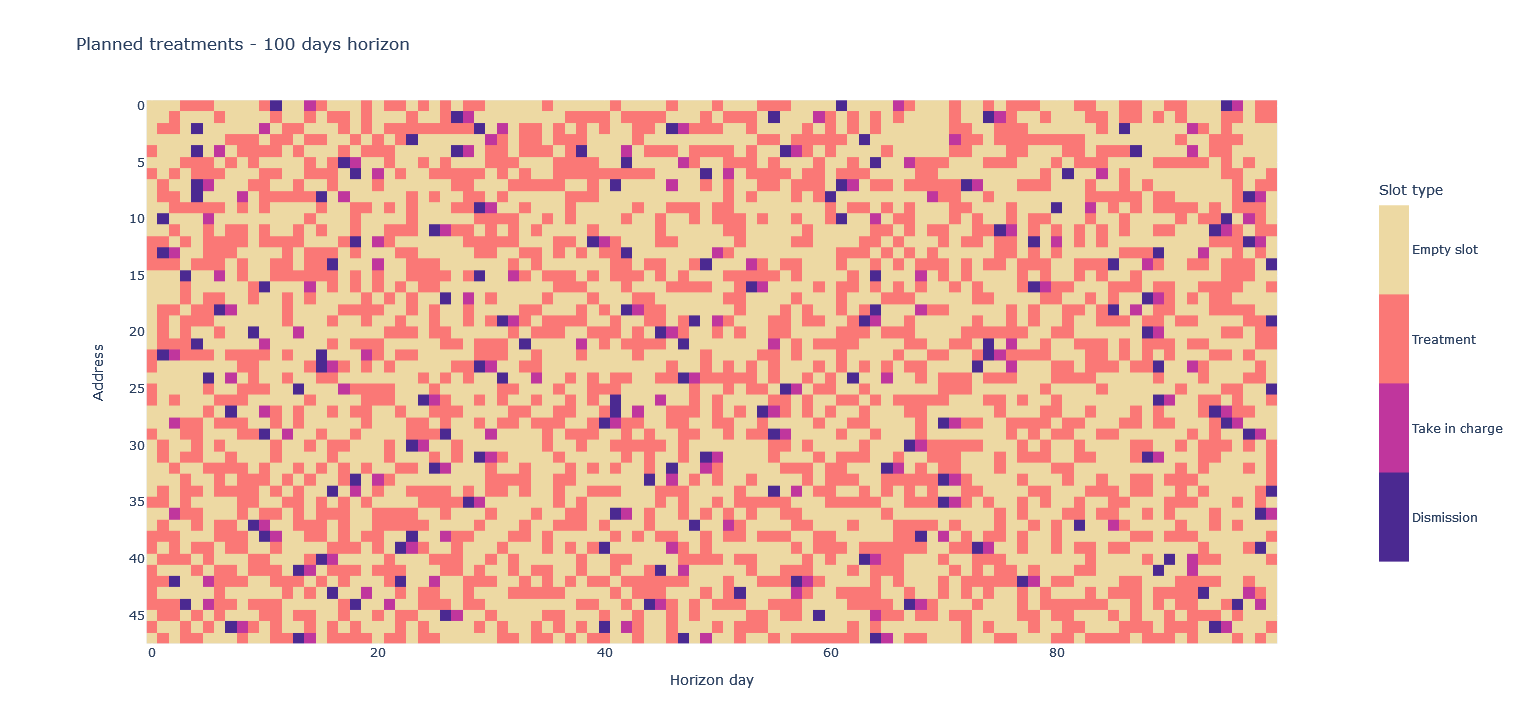
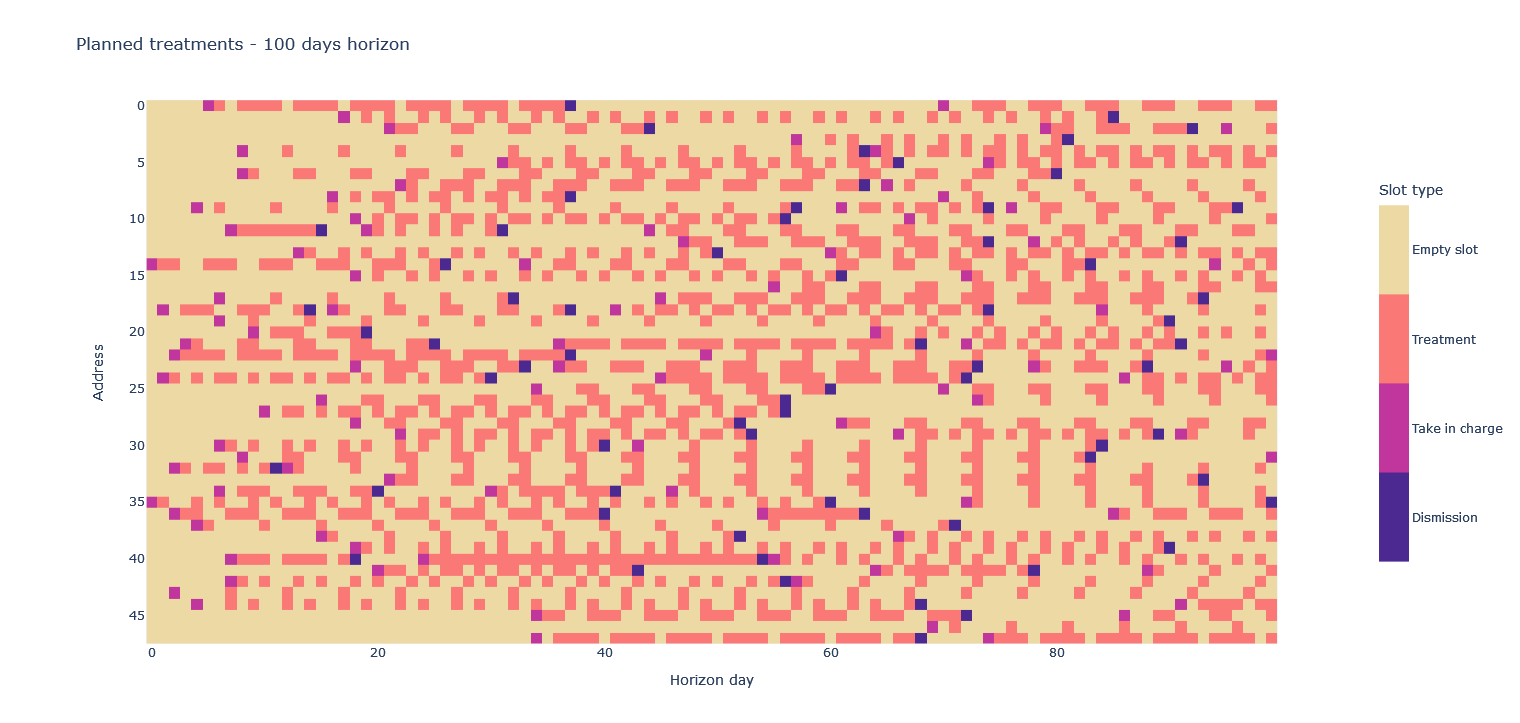
Update readme.

Changed region(s): [[0.0928, 0.1217, 0.8658, 0.9129]]

diff --git a/README.md b/README.md
@@ -2,7 +2,7 @@
 OAD project. For now it contains the instance generator.
 
 ## Instance generator
-The instance generator allows for generating a plan of given temporal span.
+The instance generator allows for generating a plan of given temporal span. The generator works "by rows".
 
 ### Class `OadInstanceGenerator`
 
@@ -16,9 +16,10 @@ Methods:
 
 Parameters
    - `timespan`: length in days for the generated instance. Defaults to `100`.
-   - `treatments_number_range`: tuple representing the extremes values allowed for the interval from which the number of daily treatments for a given patient is sampled. Defaults to `(2, 5)`.
-   - `treatment_days_range`: tuple representing the extremes values allowed for the interval from which the number of treatment days for a given patient is sampled. Defaults to `(5, 30)`.
-   - `patients_per_day_range`: tuple representing the extremes values allowed for the interval from which the number of daily treated patients is sampled. Defaults to `(18,25)`.
+   - `treatments_number_range`: tuple representing the interval from which the number of daily treatments for a given patient is sampled. Defaults to `(2, 5)`.
+   - `treatment_days_range`: tuple representing the interval from which the number of treatment days for a given patient is sampled. Defaults to `(5, 30)`.
+   - `pattern_mask_size`: size of the list used for defining the care days (which will be randomly generated, with at least 1 day of care per mask). Defaults to `5` (i.e. the working week). For each day in the mask, the probability of having a care is set to `1 / 2`.
+   - `take_in_charge_probability`: probability of having a take_in_charge event on a given day. If a take_in_charge event takes place, then the corresponding care plan is generated until dismission. After that, a new take_in_charge event may be extracted. Defaults to `1 / 25`.
 
    Returns: `instance`.
    
@@ -28,10 +29,12 @@ The following example illustrates the usage of `OADInstanceGenerator` in order t
 
 ```code
 generator = OADInstanceGenerator(seed=58492)
-instance = generator.generate_instance(timespan=100,
+timespan = 100
+instance = generator.generate_instance(timespan=timespan,
                                        treatments_number_range=(2, 5),
-                                       treatment_days_range=(5, 20),
-                                       patients_per_day_range=(18, 25))
+                                       treatment_days_range=(5, 30),
+                                       pattern_mask_size=5,
+                                       take_in_charge_probability=1/18)
 ```
 
 The generated instance corresponds to the following chart.
